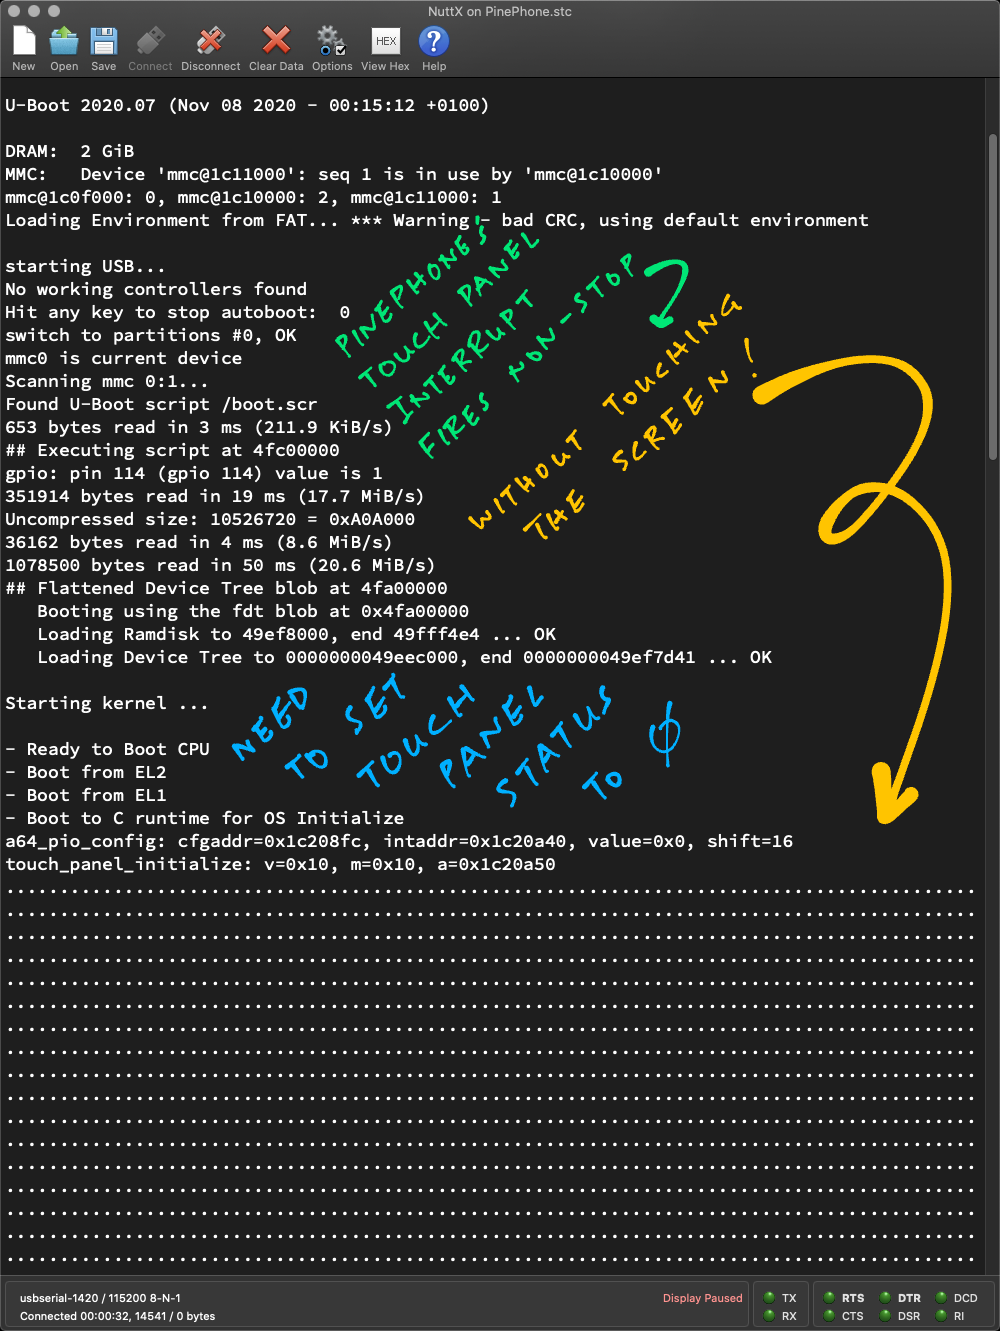
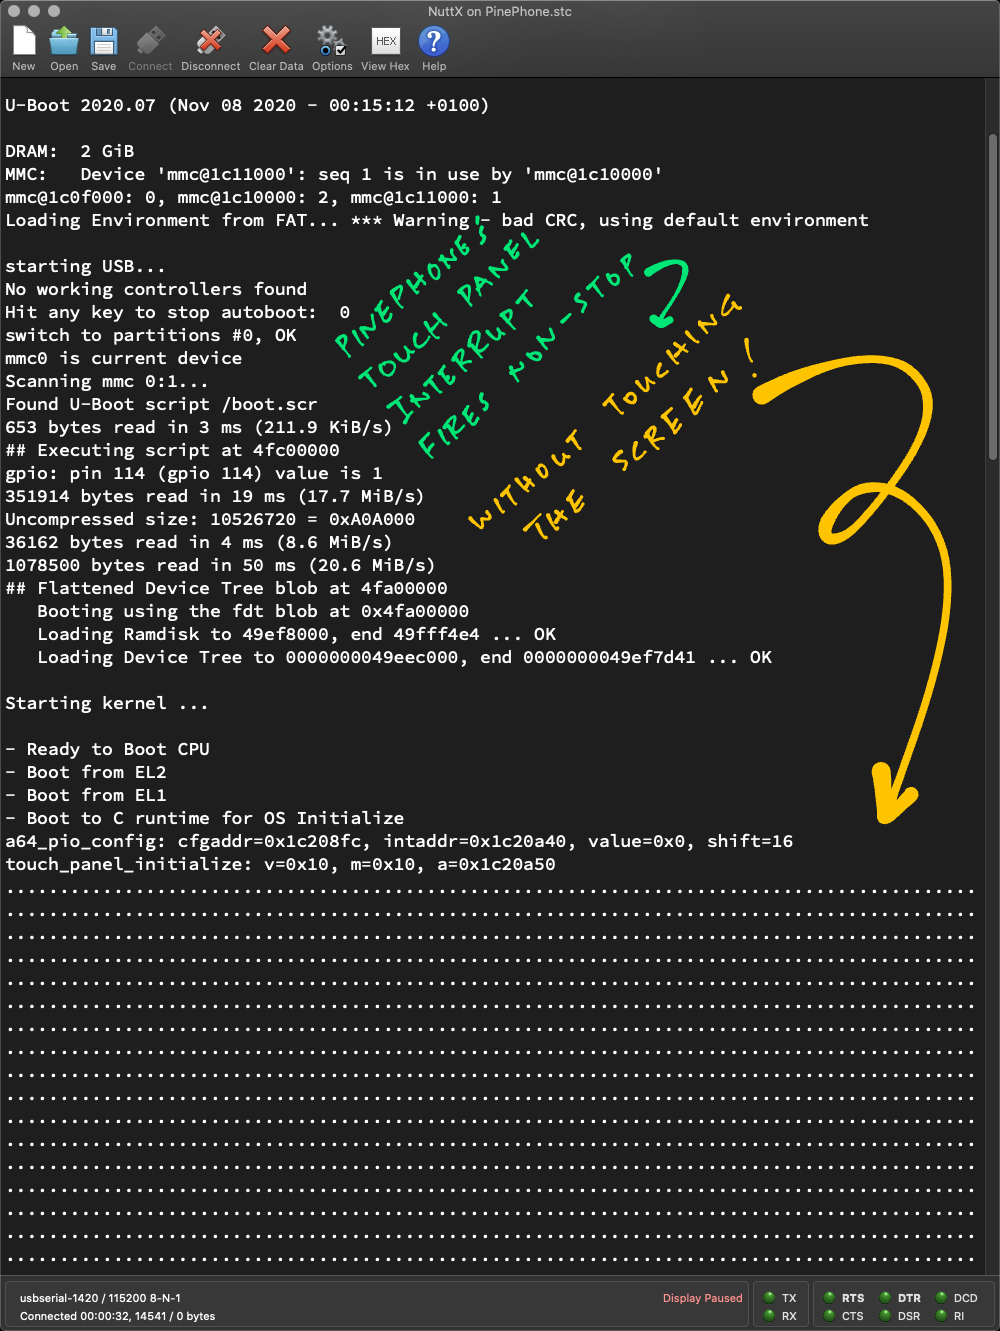
Update article

diff --git a/src/touch2.md b/src/touch2.md
@@ -276,6 +276,10 @@ struct i2c_master_s *i2c =
 touch_panel_initialize(i2c);
 ```
 
+We insert this code at the end of the [__PinePhone Bringup Function__](https://github.com/lupyuen2/wip-pinephone-nuttx/blob/e249049370d21a988912f2fb95a21514863dfe8a/boards/arm64/a64/pinephone/src/pinephone_bringup.c#L57-L175), so that NuttX Kernel will run it at the end of startup.
+
+(Yes it sounds hacky, but it's a simple way to do Kernel Experiments)
+
 Now that we have simulated an Interrupt Handler, let's read a Touch Point!
 
 ![Reading a Touch Point](https://lupyuen.github.io/images/touch2-code4a.png)
@@ -415,37 +419,72 @@ Let's handle interrupts from the Touch Panel...
 
 # Attach our Interrupt Handler
 
-TODO
+_We've done polling with the Touch Panel..._
 
-In the previous section we've read the Touch Panel by Polling. Which is easier but inefficient.
+_How do we handle interrupts from the Touch Panel?_
 
-Eventually we'll use an Interrupt Handler to monitor Touch Panel Interrupts. This is how we monitor PH4 for interrupts: [pinephone_bringup.c](https://github.com/lupyuen2/wip-pinephone-nuttx/blob/c3eccc67d879806a015ae592205e641dcffa7d09/boards/arm64/a64/pinephone/src/pinephone_bringup.c#L255-L328)
+In the previous section we've read the Touch Panel by polling... Which is easier but inefficient.
+
+Now we do a proper __Interrupt Handler__ for the Touch Panel. This is how we attach our Interrupt Handler to PH4 in NuttX: [pinephone_bringup.c](https://github.com/lupyuen2/wip-pinephone-nuttx/blob/c3eccc67d879806a015ae592205e641dcffa7d09/boards/arm64/a64/pinephone/src/pinephone_bringup.c#L255-L328)
 
 ```c
 // Touch Panel Interrupt (CTP-INT) is at PH4
-#define CTP_INT (PIO_EINT | PIO_PORT_PIOH | PIO_PIN4)
+#define CTP_INT ( \
+  PIO_EINT      | \  /* PIO External Interrupt */
+  PIO_PORT_PIOH | \  /* PIO Port H */
+  PIO_PIN4        \  /* PIO Pin 4 */
+)
 
 // Register the Interrupt Handler for Touch Panel
 void touch_panel_initialize(void) {
 
   // Attach the PIO Interrupt Handler for Port PH
-  if (irq_attach(A64_IRQ_PH_EINT, touch_panel_interrupt, NULL) < 0) {
-    _err("irq_attach failed\n");
-    return ERROR;
-  }
+  int ret = irq_attach(     // Attach a NuttX Interrupt Handler...
+    A64_IRQ_PH_EINT,        // Interrupt Number for Port PH: 53
+    touch_panel_interrupt,  // Interrupt Handler
+    NULL                    // Argument for Interrupt Handler
+  );
+  DEBUGASSERT(ret == OK);
 
-  // Enable the PIO Interrupt for Port PH
+  // Enable the PIO Interrupt for Port PH.
+  // A64_IRQ_PH_EINT is 53.
   up_enable_irq(A64_IRQ_PH_EINT);
 
-  // Configure the Touch Panel Interrupt
-  int ret = a64_pio_config(CTP_INT);
+  // Configure the Touch Panel Interrupt for Pin PH4
+  ret = a64_pio_config(CTP_INT);
   DEBUGASSERT(ret == 0);
 
-  // Enable the Touch Panel Interrupt
+  // Enable the Touch Panel Interrupt for Pin PH4
   ret = a64_pio_irqenable(CTP_INT);
   DEBUGASSERT(ret == 0);
 }
+```
 
+[(__a64_pio_config__ configures PH4 as an Interrupt Pin)](https://github.com/apache/nuttx/blob/master/arch/arm64/src/a64/a64_pio.c#L174-L344)
+
+[(__a64_pio_irqenable__ enables interrupts on Pin PH4)](https://github.com/apache/nuttx/blob/master/arch/arm64/src/a64/a64_pio.c#L420-L440)
+
+_Why call both up_enable_irq and a64_pio_irqenable?_
+
+Allwinner A64 does Two-Tier Interrupts, by Port and Pin...
+
+-   First we enable interrupts for __Port PH__
+
+    (By calling __up_enable_irq__)
+
+-   Then we enable interrupts for __Pin PH4__
+
+    [(By calling __a64_pio_irqenable__)](https://github.com/apache/nuttx/blob/master/arch/arm64/src/a64/a64_pio.c#L420-L440)
+
+Which means that our Interrupt Handler will be shared by __all Pins on Port PH__.
+
+(When we enable them in future)
+
+_What's touch_panel_interrupt?_
+
+__touch_panel_interrupt__ is our Interrupt Handler. Let's do a simple one...
+
+```c
 // Interrupt Handler for Touch Panel
 static int touch_panel_interrupt(int irq, void *context, void *arg) {
 
@@ -455,9 +494,29 @@ static int touch_panel_interrupt(int irq, void *context, void *arg) {
 }
 ```
 
-When we run this code, it generates a non-stop stream of "." characters.
+This Interrupt Handler simply prints "__`.`__" whenever the Touch Panel triggers an interrupt.
 
-Which means that the Touch Input Interrupt is generated continuously. Without touching the screen!
+_It's OK to call up_putc in an Interrupt Handler?_
+
+Yep it's perfectly OK, because [__up_putc__](https://github.com/apache/nuttx/blob/master/arch/arm64/src/a64/a64_serial.c#L619-L649) simply writes to the UART Register. (It won't trigger another interrupt)
+
+![Touch Panel triggers our Interrupt Handler Non-Stop](https://lupyuen.github.io/images/touch2-run2a.png)
+
+_What happens when we run this?_
+
+When we run the code, it generates a __never-ending stream__ of "__`.`__" characters...
+
+__Without us touching__ the screen! (Pic above)
+
+_Is this a bad thing?_
+
+Yes it's terrible! This means that the Touch Panel fires Touch Input Interrupts continuously...
+
+__NuttX will be overwhelmed__ handling Touch Input Interrupts 100% of the time. No time for other tasks!
+
+We'll fix this by __throttling the interrupts__ from the Touch Panel. Here's how...
+
+![Handling Interrupts from Touch Panel](https://lupyuen.github.io/images/touch2-code6a.png)
 
 # Handle Interrupts from Touch Panel
 
@@ -600,14 +659,6 @@ touch_panel_read: touch x=15, y=1394
 [(Source)](https://gist.github.com/lupyuen/91a37a4b54f75f7386374a30821dc1b2)
 
 Let's move this code into the NuttX Touch Panel Driver for PinePhone...
-
-TODO9
-
-![TODO](https://lupyuen.github.io/images/touch2-code6a.png)
-
-TODO13
-
-![TODO](https://lupyuen.github.io/images/touch2-run2a.png)
 
 TODO14
 
